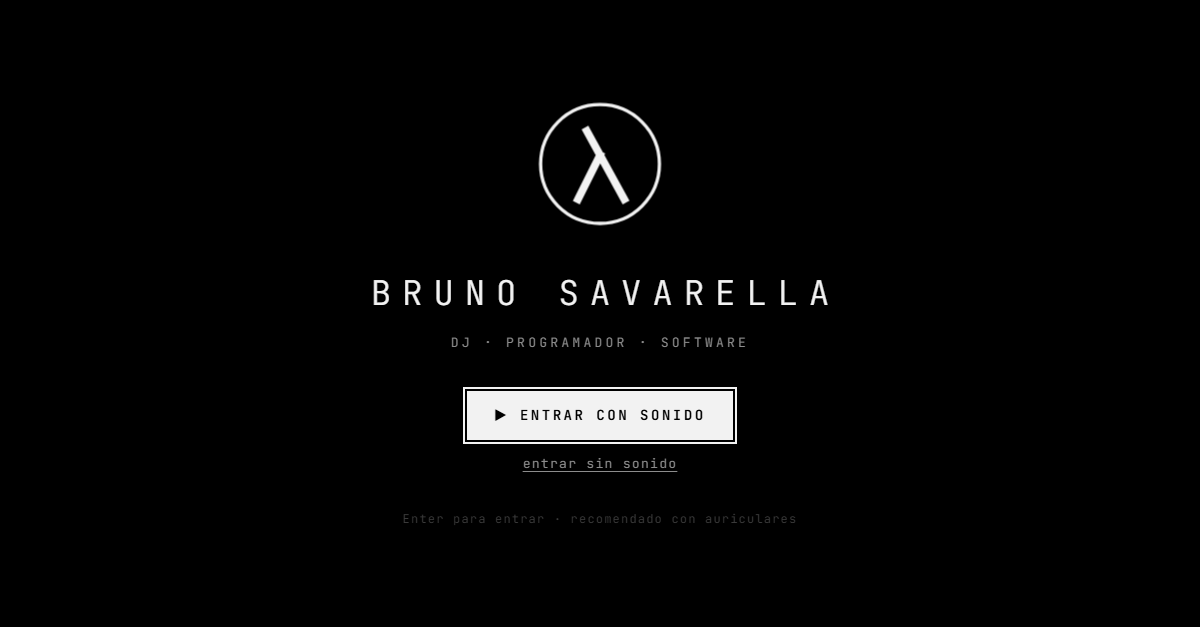
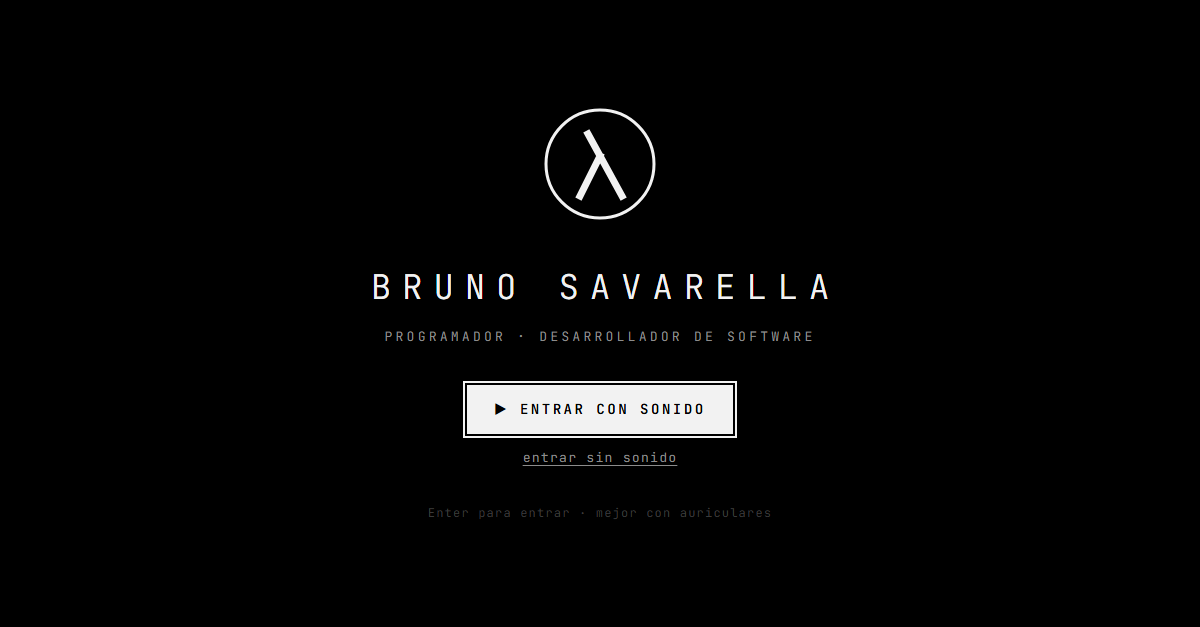
Portfolio: programador y desarrollador; la música como hobby

diff --git a/index.html b/index.html
@@ -4,16 +4,16 @@
   <meta charset="utf-8">
   <meta name="viewport" content="width=device-width, initial-scale=1, viewport-fit=cover">
   <title>Bruno Savarella — λ</title>
-  <meta name="description" content="Bruno Savarella: DJ, programador y obsesivo del software. Córdoba, Argentina. Proyectos, servicios y contacto, con un tema de house escrito en JavaScript.">
+  <meta name="description" content="Bruno Savarella: programador y desarrollador de software en Córdoba, Argentina. Proyectos, servicios y contacto, con un tema de house escrito en JavaScript.">
   <meta name="author" content="Bruno Savarella">
   <meta property="og:type" content="website">
-  <meta property="og:title" content="Bruno Savarella — DJ · programador · software">
+  <meta property="og:title" content="Bruno Savarella — Programador y desarrollador de software">
   <meta property="og:description" content="Software, seguridad y música. La música que suena en la página está escrita en código.">
   <meta property="og:url" content="https://brun02005.github.io/">
   <meta property="og:image" content="https://brun02005.github.io/og-image.png">
   <meta property="og:image:width" content="1200">
   <meta property="og:image:height" content="627">
-  <meta property="og:image:alt" content="λ Bruno Savarella — DJ, programador y software">
+  <meta property="og:image:alt" content="λ Bruno Savarella — programador y desarrollador de software">
   <meta name="twitter:card" content="summary_large_image">
   <meta name="theme-color" content="#000000">
   <link rel="canonical" href="https://brun02005.github.io/">
@@ -268,7 +268,7 @@
       <path d="M40 92 L60 52 M48 30 L82 92" stroke="currentColor" stroke-width="7" stroke-linecap="square"/>
     </svg>
     <h1 id="gateTitle">Bruno Savarella</h1>
-    <div class="tagline">dj · programador · software</div>
+    <div class="tagline">programador · desarrollador de software</div>
     <div class="gate-actions">
       <button class="enter" id="enterSound" type="button">▶ Entrar con sonido</button>
       <button class="quiet" id="enterQuiet" type="button">entrar sin sonido</button>
@@ -294,7 +294,7 @@
 
   <noscript>
     <h1>Bruno Savarella</h1>
-    <p>DJ, programador y obsesivo del software · Córdoba, Argentina.</p>
+    <p>Programador y desarrollador de software · Córdoba, Argentina.</p>
     <p>Proyectos: A&amp;M Piscinas (cotizador online y CRM en producción, <a href="https://aym-piscinas.pages.dev">sitio</a>),
       <a href="https://github.com/Brun02005/control-acceso-facial">control de acceso biométrico</a>,
       <a href="https://github.com/Brun02005/BLUE-DAR">BLUE-DAR</a>,
@@ -562,7 +562,7 @@
     var parts = [
       '<section class="hero">' +
         '<div class="kicker">λ · Córdoba, Argentina</div>' +
-        '<h2>Bruno Savarella<br><span class="thin">dj · programador · software</span></h2>' +
+        '<h2>Bruno Savarella<br><span class="thin">programador · desarrollador</span></h2>' +
         '<p class="lead">Construyo software con la misma lógica con la que armo un set: cada pieza en su lugar, transiciones cuidadas y alguien del otro lado que lo disfrute.</p>' +
         '<div class="facts">Ing. en Sistemas (UTN) · ciberseguridad · desarrollo con IA · inglés B2</div>' +
         '<div class="cta">' + '<button type="button" class="btn solid" data-cmd="proyectos">ver proyectos</button>' +
@@ -573,7 +573,7 @@
       '<div class="section-title">lo que hago</div><div class="pillars">' +
         '<div class="pillar"><div class="no">01</div><h3>Software</h3><p>Sitios, sistemas de gestión y automatización con IA. Uno está en producción y llevó las ventas de una empresa un 10 % arriba.</p></div>' +
         '<div class="pillar"><div class="no">02</div><h3>Seguridad</h3><p>Permisos, privacidad y datos protegidos desde el diseño, no como parche. Formación en FAMAF-UNC e IBM.</p></div>' +
-        '<div class="pillar"><div class="no">03</div><h3>Música</h3><p>Pincho desde antes de programar. Lo que suena en esta página no es un archivo: está escrito en JavaScript.</p></div>' +
+        '<div class="pillar"><div class="no">03</div><h3>Desarrollo con IA</h3><p>Uso asistentes de código para construir más rápido e integro modelos de IA en mis aplicaciones, revisando cada línea.</p></div>' +
       "</div>"
     ];
     var els = parts.map(function (html) { return reveal(block(html)); });
@@ -584,6 +584,7 @@
         '<div><p class="line">La tecnología sola no alcanza. Tiene que cruzarse con lo humano para que valga la pena.</p></div>' +
         "<div><p>Empecé vendiendo piscinas. Los clientes vivían en papel y escribí mi primer sistema para ordenarlos: ahí entendí que programar era otra forma de crear.</p>" +
         "<p>A veces la persona correcta en el lugar equivocado termina siendo justo lo que hacía falta.</p>" +
+        "<p>Fuera del código, pincho música: es mi hobby y mi forma de conectar. Lo que suena en esta página está escrito en JavaScript.</p>" +
         '<div class="ps">stay hungry · stay foolish</div></div></section>'));
       block('<div class="dim">→ explorá con ' + cmdLink("help") + ", tocá un atajo de abajo o probá " + cmdLink("drop") + ".</div>");
       return els;
@@ -632,12 +633,12 @@
       ]
     },
     waveload: {
-      dir: "waveload", name: "WaveLoad", short: "El software de mi cabina: BPM, tono y energía de cada tema. 646 tests.",
-      title: "WaveLoad — el software de mi cabina", tag: "DJ × SOFTWARE", solid: true,
+      dir: "waveload", name: "WaveLoad", short: "Nació de mi hobby, la música: BPM, tono y energía de cada tema. 646 tests.",
+      title: "WaveLoad — gestión y análisis de audio", tag: "HOBBY × SOFTWARE", solid: true,
       cover: "assets/waveload.png", link: ["https://github.com/Brun02005/WaveLoad", "código"],
       img: ["assets/waveload.png"], caption: "Vista de la librería: BPM, tono y energía calculados para cada tema.",
       rows: [
-        ["problema", "Cientos de temas para pinchar y ninguna herramienta que los organizara como yo quería."],
+        ["problema", "Como hobby pincho música, y tenía cientos de temas sin una herramienta que los organizara como yo quería."],
         ["decisión", "Arquitectura hexagonal (el dominio no sabe nada de la base ni de la interfaz), workers en segundo plano y un motor de consultas que compila filtros de etiquetas a SQL."],
         ["resultado", "<span class=\"inv\">646 tests</span> que corren en menos de un minuto, análisis de BPM, tono y energía, y un grafo de compatibilidad entre temas para armar sets."],
         ["stack", "Python · PySide6 (Qt) · SQLite · librosa · NumPy · NetworkX · pytest"],
@@ -876,7 +877,7 @@
   C.musica = function () {
     block('<div style="margin-bottom:10px"><span class="inv">♪ bruno.js</span> <span class="dim">· house · ' + Mix.bpm() + " bpm · " + (Mix.playing() ? "sonando" : "en pausa") + "</span></div>" +
       "<p>Lo que suena no es un archivo de audio. Es código: cada bombo, cada hi-hat y cada acorde se sintetiza en vivo en tu navegador con la Web Audio API. Am7, Fmaj7, Dm7, Em7, y un bajo que responde a contratiempo.</p>" +
-      "<p>Pincho desde antes de programar. Para mí, armar un set y diseñar software se parecen: elegir qué va con qué, cuidar las transiciones y leer a quien está del otro lado.</p>" +
+      "<p>Pinchar es mi hobby y mi forma de conectar. Armar un set y diseñar software se parecen: elegir qué va con qué, cuidar las transiciones y leer a quien está del otro lado.</p>" +
       rows([
         [cmdLink(Mix.playing() ? "stop" : "play"), Mix.playing() ? "pausar" : "reproducir"],
         [cmdLink("drop"), "un break y vuelve el bombo"],
@@ -956,7 +957,7 @@
   };
 
   C.clear = function () { out.innerHTML = ""; };
-  C.whoami = function () { block("Bruno Savarella · DJ · programador · software · Córdoba, AR" + hint(["inicio", "proyectos"])); };
+  C.whoami = function () { block("Bruno Savarella · programador y desarrollador de software · Córdoba, AR" + hint(["inicio", "proyectos"])); };
   C.pwd = function () { block("/home/bruno"); };
   C.tema = function () { toggleTheme(); };
 
